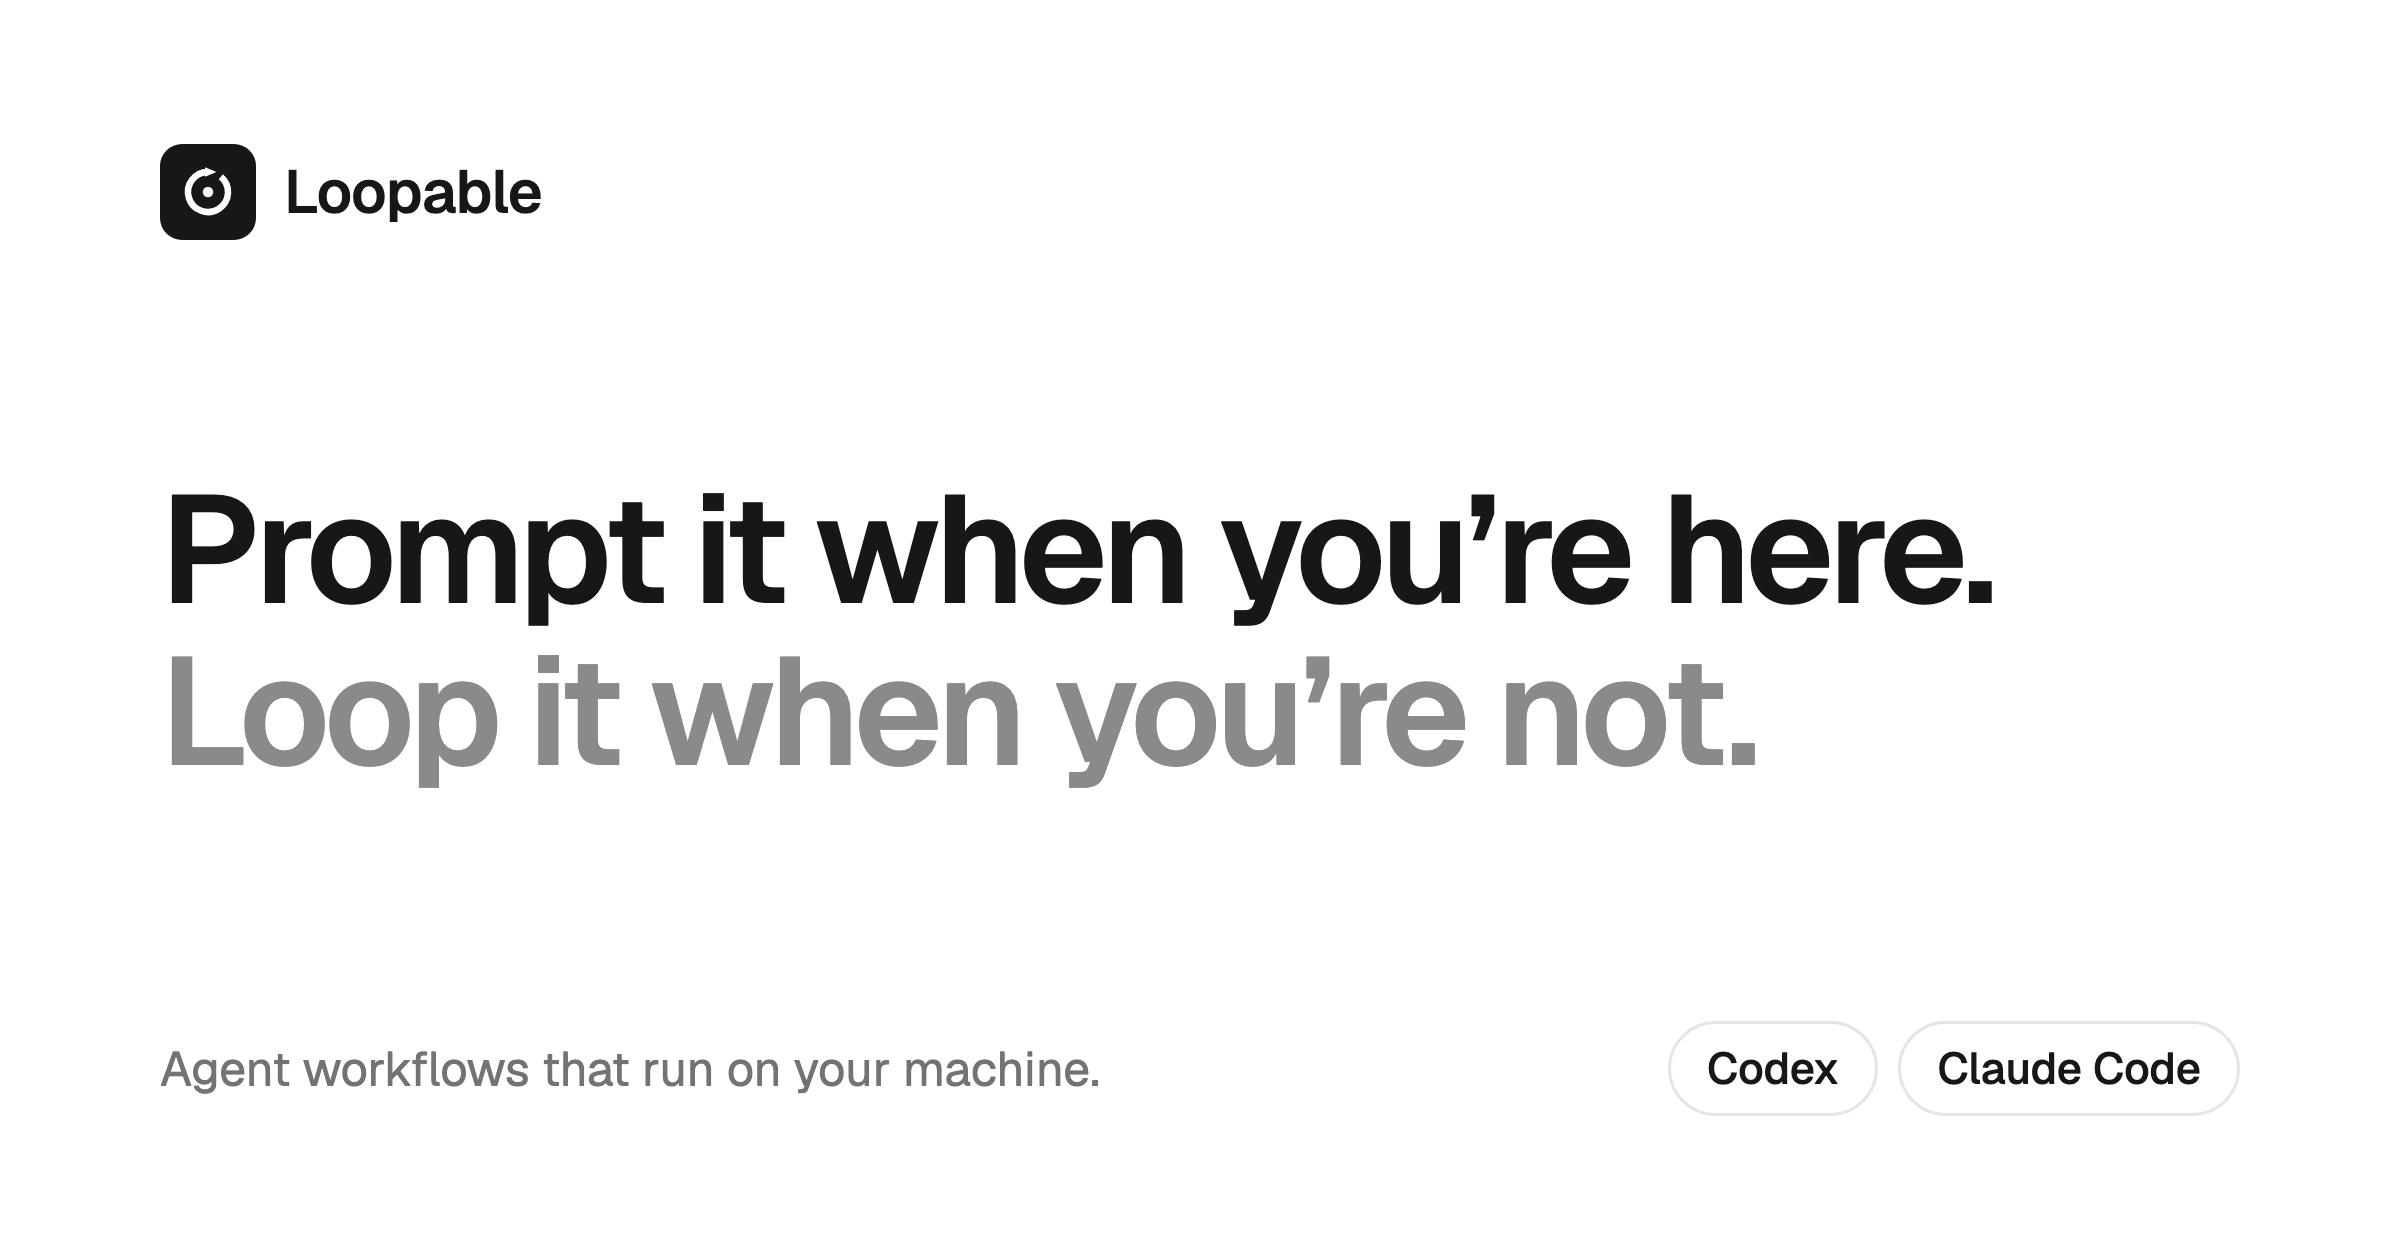
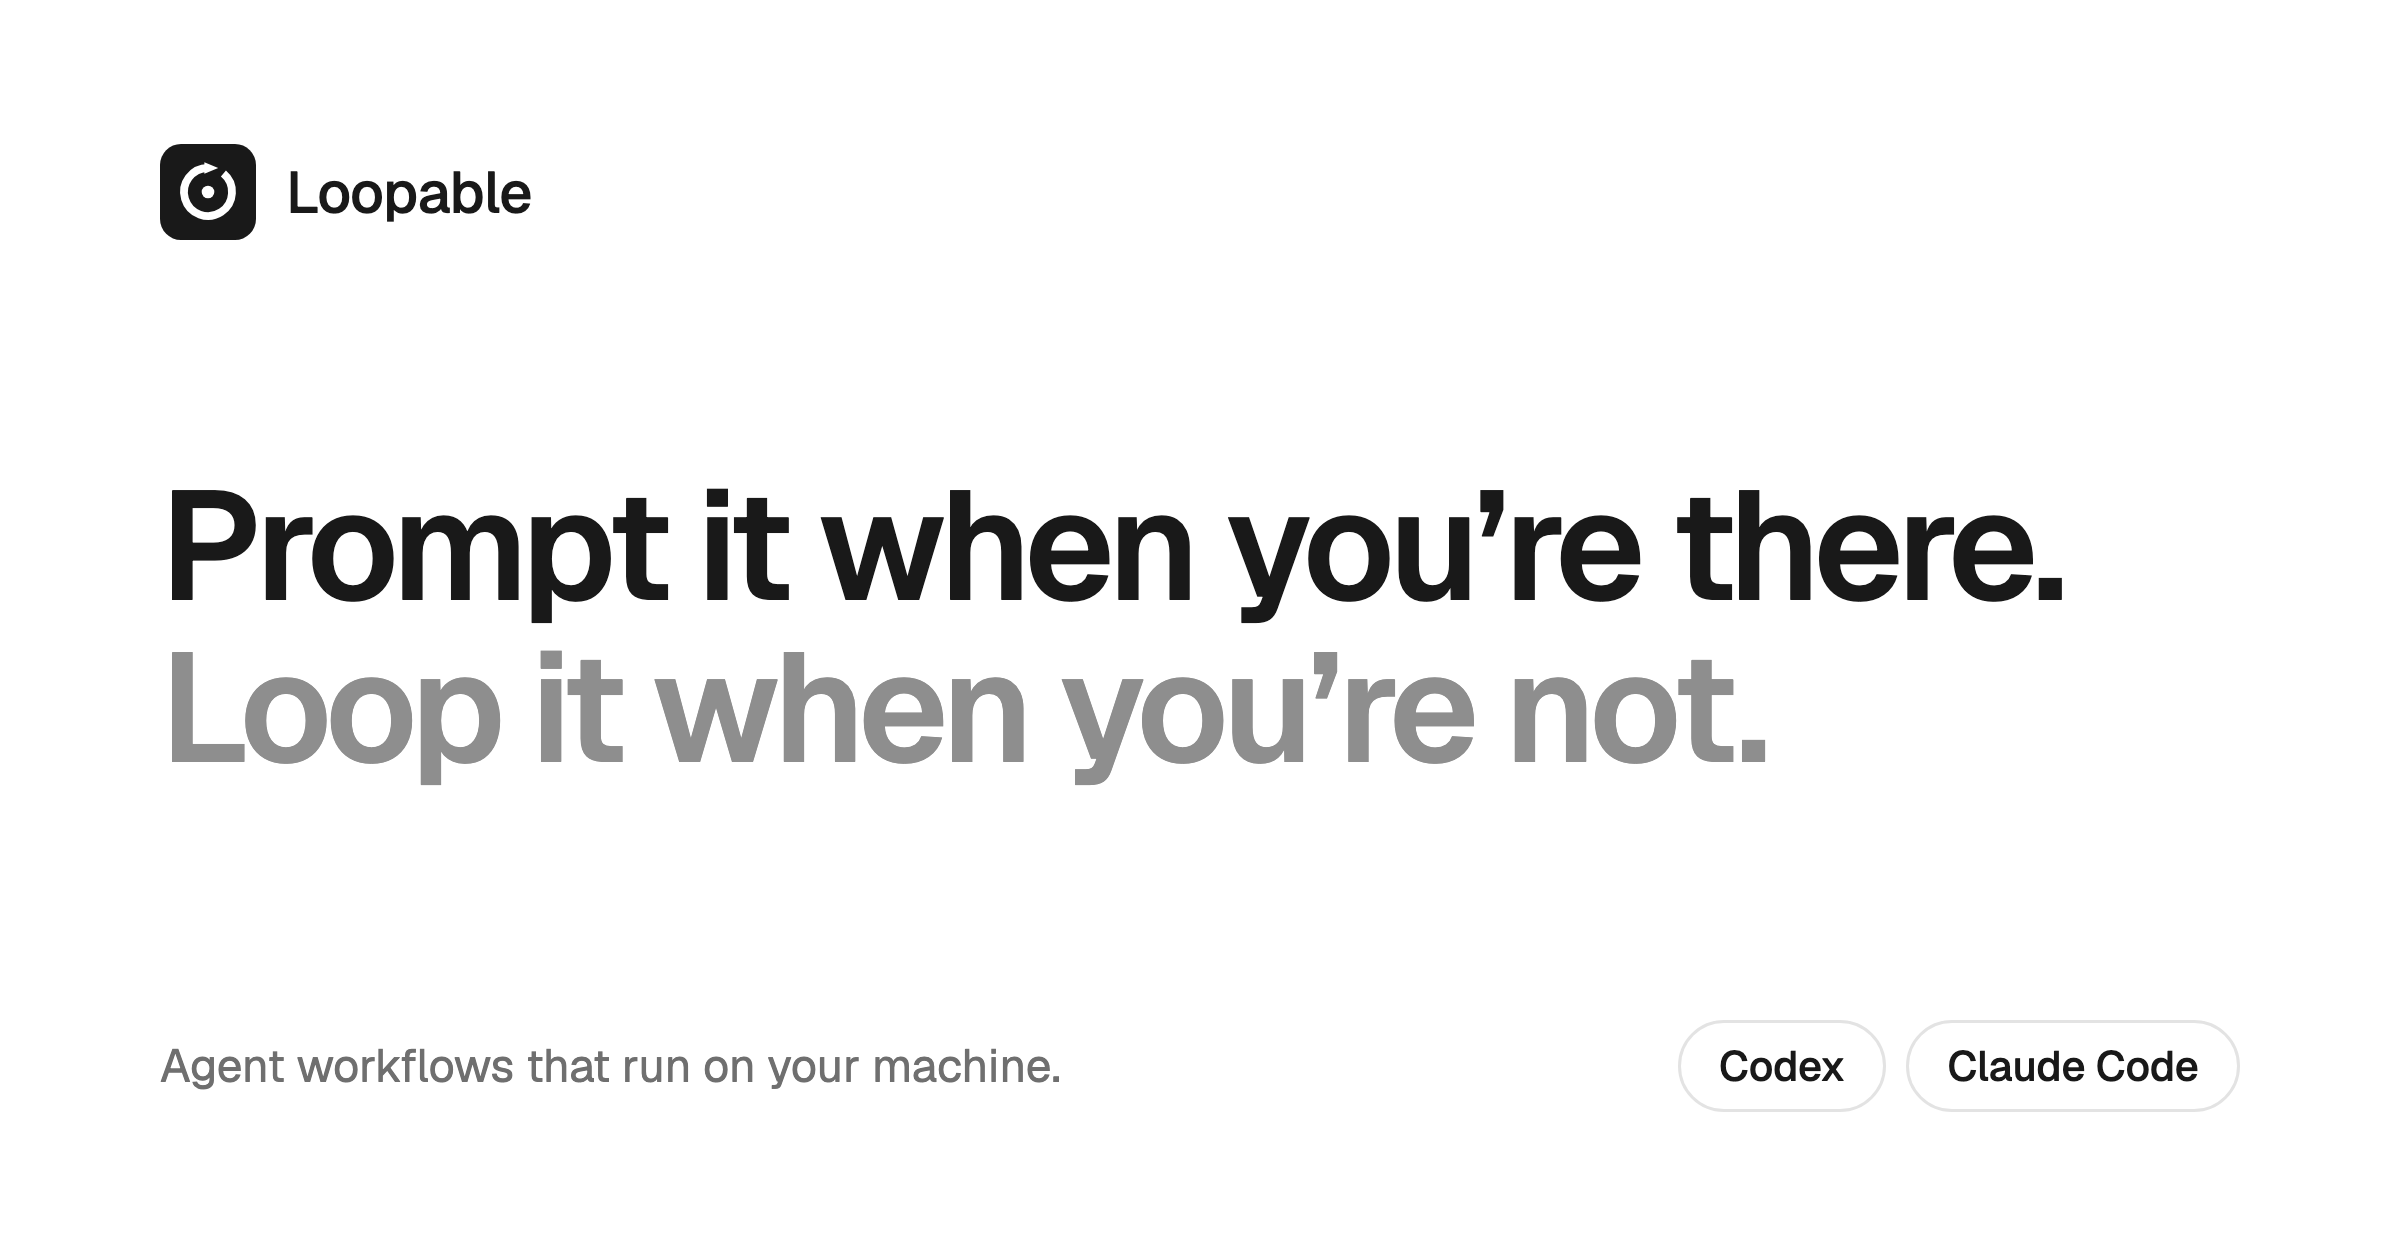
Run a Lark or Slack mention sent before a loop's first look; tagline says "there" (#5)
* Run a Lark or Slack mention sent before a loop's first look.

A new loop took the newest message in each chat as its starting point and
skipped it, and its first look sent everything to the backlog. So a mention
sent between making the loop and its first look was never run. Chats with no
position now read from when the loop last looked (or was made), and a first
look only sends to the backlog what happened before the loop was made.

* Say "prompt it when you're there", not "here", everywhere the tagline appears.

---------

diff --git a/src/connectors/feishu/runtime.test.ts b/src/connectors/feishu/runtime.test.ts
@@ -110,20 +110,33 @@ describe("feishu poll", () => {
       settings: {},
       credential: account,
       cursor: cursor as never,
+      since: 1690000000000,
     });
 
-  it("records where each group is and does not replay old messages on the first look", async () => {
+  it("reads a group it has not seen from when the loop last looked", async () => {
     givenFeishu({
-      chats: [{ chat_id: "oc_eng", name: "eng" }],
+      chats: [
+        { chat_id: "oc_eng", name: "eng" },
+        { chat_id: "oc_quiet", name: "quiet" },
+      ],
       history: {
         oc_eng: [
           {
-            message_id: "om_old",
+            message_id: "om_before",
             create_time: "1690000000000",
             chat_id: "oc_eng",
             msg_type: "text",
             sender: { id: "ou_maya", sender_type: "user" },
-            body: { content: "{\"text\":\"@_user_1 old\"}" },
+            body: { content: "{\"text\":\"@_user_1 before the loop\"}" },
+            mentions: [{ id: "ou_bot" }],
+          },
+          {
+            message_id: "om_ask",
+            create_time: "1690000030000",
+            chat_id: "oc_eng",
+            msg_type: "text",
+            sender: { id: "ou_maya", sender_type: "user" },
+            body: { content: "{\"text\":\"@_user_1 sent before the first look\"}" },
             mentions: [{ id: "ou_bot" }],
           },
         ],
@@ -131,8 +144,8 @@ describe("feishu poll", () => {
     });
 
     const { signals, cursor } = await poll(null);
-    expect(signals).toEqual([]);
-    expect(cursor).toEqual({ oc_eng: "1690000000000" });
+    expect(signals.map((signal) => [signal.key, signal.at])).toEqual([["oc_eng:om_ask", 1690000030000]]);
+    expect(cursor).toEqual({ oc_eng: "1690000030000", oc_quiet: "1690000000000" });
   });
 
   it("keeps a group mention of the bot and skips chat and its own replies", async () => {
@@ -183,6 +196,7 @@ describe("feishu poll", () => {
           user: "ou_maya",
           text: "@_user_1 checkout 5xx",
         },
+        at: 1700000002000,
       },
     ]);
     expect(cursor).toEqual({ oc_eng: "1700000003000" });

diff --git a/src/server/signals.ts b/src/server/signals.ts
@@ -49,11 +49,12 @@ function claimOf(loop: Loop, signal: Signal): string {
 /**
  * One look at what a loop is watching for.
  *
- * The first look never acts. Whatever is already waiting when a loop is
- * created is that loop's backlog, and running an agent over a review queue
- * that has been piling up for a month is not what someone turning on a loop
- * is asking for. It is recorded rather than discarded, so it can still be run
- * on purpose afterwards.
+ * The first look does not act on what was there before the loop. Whatever is
+ * already waiting when a loop is created is that loop's backlog, and running
+ * an agent over a review queue that has been piling up for a month is not
+ * what someone turning on a loop is asking for. It is recorded rather than
+ * discarded, so it can still be run on purpose afterwards. A message sent
+ * after the loop was made, before its first look, is acted on.
  */
 export async function pollLoop(loop: Loop, claimed: Set<string>): Promise<PollReport> {
   const report: PollReport = {
@@ -85,6 +86,7 @@ export async function pollLoop(loop: Loop, claimed: Set<string>): Promise<PollRe
       settings: loop.settings,
       credential,
       cursor: loop.pollCursor ?? null,
+      since: (loop.polledAt ?? loop.createdAt).getTime(),
     });
     const found = answer.signals;
     report.found = found.length;
@@ -131,11 +133,12 @@ export async function pollLoop(loop: Loop, claimed: Set<string>): Promise<PollRe
       // first look: the same thing sitting in two loops' lists would be run
       // twice by whoever works through them.
       const hold = signal.hold ?? judged.get(signal.key);
+      const before = signal.at === undefined || signal.at < loop.createdAt.getTime();
       const outcome = claimed.has(claim)
         ? "superseded"
         : hold
           ? "held"
-          : first
+          : first && before
             ? "backlog"
             : "queued";
       const task = outcome === "queued" ? await enqueueSignal({ loop, signal }) : null;

diff --git a/src/connectors/slack/runtime.test.ts b/src/connectors/slack/runtime.test.ts
@@ -84,23 +84,27 @@ describe("slack poll", () => {
       settings: {},
       credential: account,
       cursor: cursor as never,
+      since: 95_000,
     });
 
-  it("records where each channel is and does not replay old messages on the first look", async () => {
-    givenSlack({
+  it("reads a channel it has not seen from when the loop last looked", async () => {
+    const sent = givenSlack({
       channels: [
         { id: "Ceng", name: "eng" },
         { id: "Dmaya", is_im: true },
       ],
       history: {
-        Ceng: [{ ts: "90.0", user: "Umaya", text: "<@Ubot> old mention" }],
-        Dmaya: [{ ts: "91.0", user: "Umaya", text: "old dm" }],
+        Ceng: [{ ts: "96.0", user: "Umaya", text: "<@Ubot> sent before the first look" }],
       },
     });
 
     const { signals, cursor } = await poll(null);
-    expect(signals).toEqual([]);
-    expect(cursor).toEqual({ Ceng: "90.0", Dmaya: "91.0" });
+    expect(signals.map((signal) => [signal.key, signal.at])).toEqual([["Ceng:96.0", 96_000]]);
+    expect(cursor).toEqual({ Ceng: "96.0", Dmaya: "95" });
+    const asked = sent
+      .filter((call) => call.url.includes("conversations.history"))
+      .map((call) => new URL(call.url).searchParams.get("oldest"));
+    expect(asked).toEqual(["95", "95"]);
   });
 
   it("keeps a channel mention of the bot and a DM, and skips its own replies", async () => {
@@ -134,6 +138,7 @@ describe("slack poll", () => {
           text: "<@Ubot> checkout 5xx",
           threadTs: "101.0",
         },
+        at: 101_000,
       },
       {
         key: "Dmaya:103.0",
@@ -148,6 +153,7 @@ describe("slack poll", () => {
           text: "what broke checkout",
           threadTs: "103.0",
         },
+        at: 103_000,
       },
     ]);
     expect(cursor).toEqual({ Ceng: "102.0", Dmaya: "103.0" });

diff --git a/src/connectors/feishu/runtime.ts b/src/connectors/feishu/runtime.ts
@@ -105,7 +105,7 @@ export const feishuRuntime: ConnectorRuntime = {
     return { ready: true };
   },
 
-  async poll({ workflowId, credential, cursor }) {
+  async poll({ workflowId, credential, cursor, since }) {
     if (workflowId !== "feishu.ask") {
       throw new Error(`Feishu cannot watch for ${workflowId}.`);
     }
@@ -116,16 +116,17 @@ export const feishuRuntime: ConnectorRuntime = {
     const signals: Signal[] = [];
 
     for (const chat of chats) {
-      const oldest = previous[chat.id];
+      // A group seen for the first time is read from when the loop last
+      // looked, so a mention sent before this look is not taken as the start.
+      const oldest = previous[chat.id] ?? String(since);
       const messages = await history(account, chat.id, oldest);
       if (messages.length === 0) {
-        if (!next[chat.id]) next[chat.id] = String(Date.now());
+        next[chat.id] = oldest;
         continue;
       }
       next[chat.id] = messages[messages.length - 1]!.createTime;
-      if (!oldest) continue;
       for (const message of messages) {
-        if (oldest && Number(message.createTime) <= Number(oldest)) continue;
+        if (Number(message.createTime) <= Number(oldest)) continue;
         if (
           !isAsk({
             senderId: message.senderId,
@@ -149,6 +150,7 @@ export const feishuRuntime: ConnectorRuntime = {
           title: summarise(message.text),
           url: permalink(account.host, message.chatId),
           payload: asked as unknown as JsonValue,
+          at: Number(message.createTime),
         });
       }
     }

diff --git a/src/connectors/slack/runtime.ts b/src/connectors/slack/runtime.ts
@@ -93,7 +93,7 @@ export const slackRuntime: ConnectorRuntime = {
     return { ready: true };
   },
 
-  async poll({ workflowId, credential, cursor }) {
+  async poll({ workflowId, credential, cursor, since }) {
     if (workflowId !== "slack.ask") {
       throw new Error(`Slack cannot watch for ${workflowId}.`);
     }
@@ -104,14 +104,15 @@ export const slackRuntime: ConnectorRuntime = {
     const signals: Signal[] = [];
 
     for (const channel of channels) {
-      const oldest = previous[channel.id];
+      // A channel seen for the first time is read from when the loop last
+      // looked, so a mention sent before this look is not taken as the start.
+      const oldest = previous[channel.id] ?? String(since / 1000);
       const messages = await history(account, channel.id, oldest);
       if (messages.length === 0) {
-        if (!next[channel.id]) next[channel.id] = String(Date.now() / 1000);
+        next[channel.id] = oldest;
         continue;
       }
       next[channel.id] = messages[messages.length - 1]!.ts;
-      if (!oldest) continue;
       for (const message of messages) {
         if (
           !isAsk({
@@ -139,6 +140,7 @@ export const slackRuntime: ConnectorRuntime = {
           title: summarise(message.text),
           url: permalink(account, channel.id, message.ts),
           payload: asked as unknown as JsonValue,
+          at: Math.round(Number(message.ts) * 1000),
         });
       }
     }

diff --git a/src/connectors/feishu/api.ts b/src/connectors/feishu/api.ts
@@ -181,7 +181,7 @@ function mentionsOf(raw: unknown): string[] {
 export async function history(
   credential: FeishuCredential,
   chatId: string,
-  oldestMs?: string,
+  oldestMs: string,
 ): Promise<FeishuMessage[]> {
   const parsed: FeishuMessage[] = [];
   let pageToken = "";
@@ -189,10 +189,10 @@ export async function history(
     const query: Record<string, string> = {
       container_id_type: "chat",
       container_id: chatId,
-      sort_type: oldestMs ? "ByCreateTimeAsc" : "ByCreateTimeDesc",
-      page_size: oldestMs ? "50" : "1",
+      sort_type: "ByCreateTimeAsc",
+      page_size: "50",
+      start_time: String(Math.floor(Number(oldestMs) / 1000)),
     };
-    if (oldestMs) query.start_time = String(Math.floor(Number(oldestMs) / 1000));
     if (pageToken) query.page_token = pageToken;
     const body = await call(credential.host, "/im/v1/messages", {
       token: credential.tenantAccessToken,
@@ -227,8 +227,7 @@ export async function history(
         mentionIds: mentionsOf(message.mentions),
       });
     }
-    pageToken =
-      oldestMs && data.has_more === true && typeof data.page_token === "string" ? data.page_token : "";
+    pageToken = data.has_more === true && typeof data.page_token === "string" ? data.page_token : "";
   } while (pageToken);
   return parsed.sort((a, b) => Number(a.createTime) - Number(b.createTime));
 }

diff --git a/src/landing/landing.tsx b/src/landing/landing.tsx
@@ -10,7 +10,7 @@ import { Button } from "@/components/ui/button";
 import { HeroFlow } from "./hero-flow";
 import { LoopFooter } from "./loop-footer";
 
-const TITLE = "Loopable — prompt it when you're here, loop it when you're not";
+const TITLE = "Loopable — prompt it when you're there, loop it when you're not";
 const DESCRIPTION =
   "Loopable turns the work that keeps coming back into agent workflows, in minutes. They run on your machine with Codex or Claude Code, and answer where they were asked.";
 const ORIGIN = "https://loop.goodone.si";
@@ -150,7 +150,7 @@ function Hero({ signedIn, next }: { signedIn: boolean; next?: string }) {
     <section className="mx-auto grid min-h-[calc(100svh-3.5rem)] max-w-6xl items-center gap-12 px-6 py-16 md:grid-cols-[1.25fr_1fr]">
       <div>
         <h1 className="text-4xl font-semibold tracking-tight text-balance lg:text-[2.75rem] lg:leading-tight">
-          <span className="block">Prompt it when you&rsquo;re here.</span>
+          <span className="block">Prompt it when you&rsquo;re there.</span>
           <span className="block">Loop it when you&rsquo;re not.</span>
         </h1>
         <p className="mt-5 max-w-xl text-lg text-muted-foreground text-pretty">{DESCRIPTION}</p>

diff --git a/src/connectors/types.ts b/src/connectors/types.ts
@@ -416,6 +416,12 @@ export type Signal = WorkItemRef & {
    * kept here or it is lost between noticing it and acting on it.
    */
   payload?: JsonValue;
+  /**
+   * When it happened, in milliseconds, for sources that know. A loop's first
+   * look sends what it finds to the backlog, but a message sent after the
+   * loop was made is not backlog: it was sent to the loop.
+   */
+  at?: number;
 };
 
 export type ConnectorRuntime = {
@@ -458,6 +464,13 @@ export type ConnectorRuntime = {
      * between them instead of each seeing all of them.
      */
     cursor: JsonValue | null;
+    /**
+     * When this loop last looked, or when it was made if it never has, in
+     * milliseconds. A stream with nothing in the cursor for a place reads it
+     * from here: taking the newest message as the starting point would skip
+     * the very message that was sent to the loop before its first look.
+     */
+    since: number;
   }): Promise<{ signals: Signal[]; cursor?: JsonValue }>;
   /** Carry out one of the manifest's actions. This is the part that writes. */
   applyAction?(input: {

diff --git a/src/server/signals.test.ts b/src/server/signals.test.ts
@@ -128,6 +128,19 @@ describe("the first look", () => {
     expect((await signalsFor("a")).map((row) => row.outcome)).toEqual(["backlog", "backlog"]);
   });
 
+  it("runs what was sent after the loop was made, even before it first looked", async () => {
+    await givenLoop("a", 1);
+    const made = (await db().select().from(loops).where(eq(loops.id, "a")).get())!.createdAt.getTime();
+    answer = [
+      { ...pull(1), at: made - 60_000 },
+      { ...pull(2), at: made + 30_000 },
+    ];
+
+    const [report] = await pollAllLoops();
+    expect(report).toMatchObject({ found: 2, queued: 1, backlog: 1 });
+    expect((await tasksFor("a")).map((task) => task.sourceRef)).toEqual(["acme/web#2"]);
+  });
+
   it("acts on everything that turns up after it", async () => {
     await givenLoop("a", 1);
     answer = [pull(1)];

diff --git a/src/connectors/slack/api.ts b/src/connectors/slack/api.ts
@@ -109,14 +109,14 @@ export async function listConversations(credential: SlackCredential): Promise<Sl
 export async function history(
   credential: SlackCredential,
   channelId: string,
-  oldest?: string,
+  oldest: string,
 ): Promise<SlackMessage[]> {
   const query: Record<string, string> = {
     channel: channelId,
     limit: "100",
     inclusive: "false",
+    oldest,
   };
-  if (oldest) query.oldest = oldest;
   const body = await slack("conversations.history", credential.botToken, { query });
   if (!body.ok) {
     if (body.error === "not_in_channel" || body.error === "channel_not_found") return [];

diff --git a/src/connectors/schedule/runtime.test.ts b/src/connectors/schedule/runtime.test.ts
@@ -17,7 +17,7 @@ function clockAt(text: string): void {
 }
 
 function look(settings: Record<string, unknown>, cursor: string | null) {
-  return scheduleRuntime.poll!({ workflowId: "schedule.recurring", settings, credential: null, cursor });
+  return scheduleRuntime.poll!({ workflowId: "schedule.recurring", settings, credential: null, cursor, since: 0 });
 }
 
 afterEach(() => {

diff --git a/src/connectors/wechat/runtime.test.ts b/src/connectors/wechat/runtime.test.ts
@@ -43,6 +43,7 @@ const poll = (settings: Record<string, unknown> = {}, cursor: string | null = nu
     settings,
     credential: account,
     cursor,
+    since: 0,
   });
 
 afterEach(() => vi.unstubAllGlobals());
